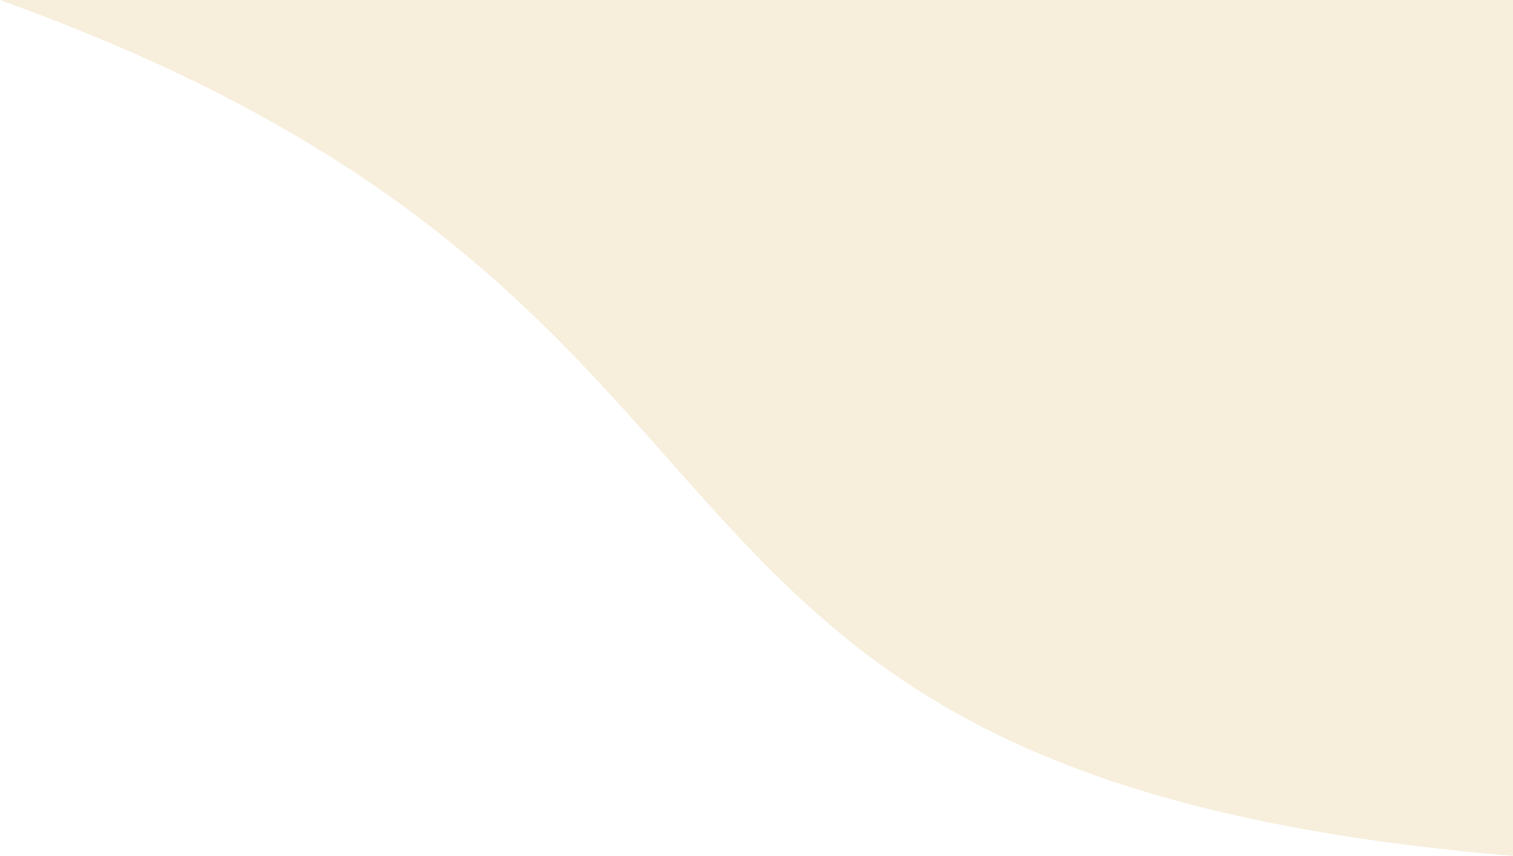
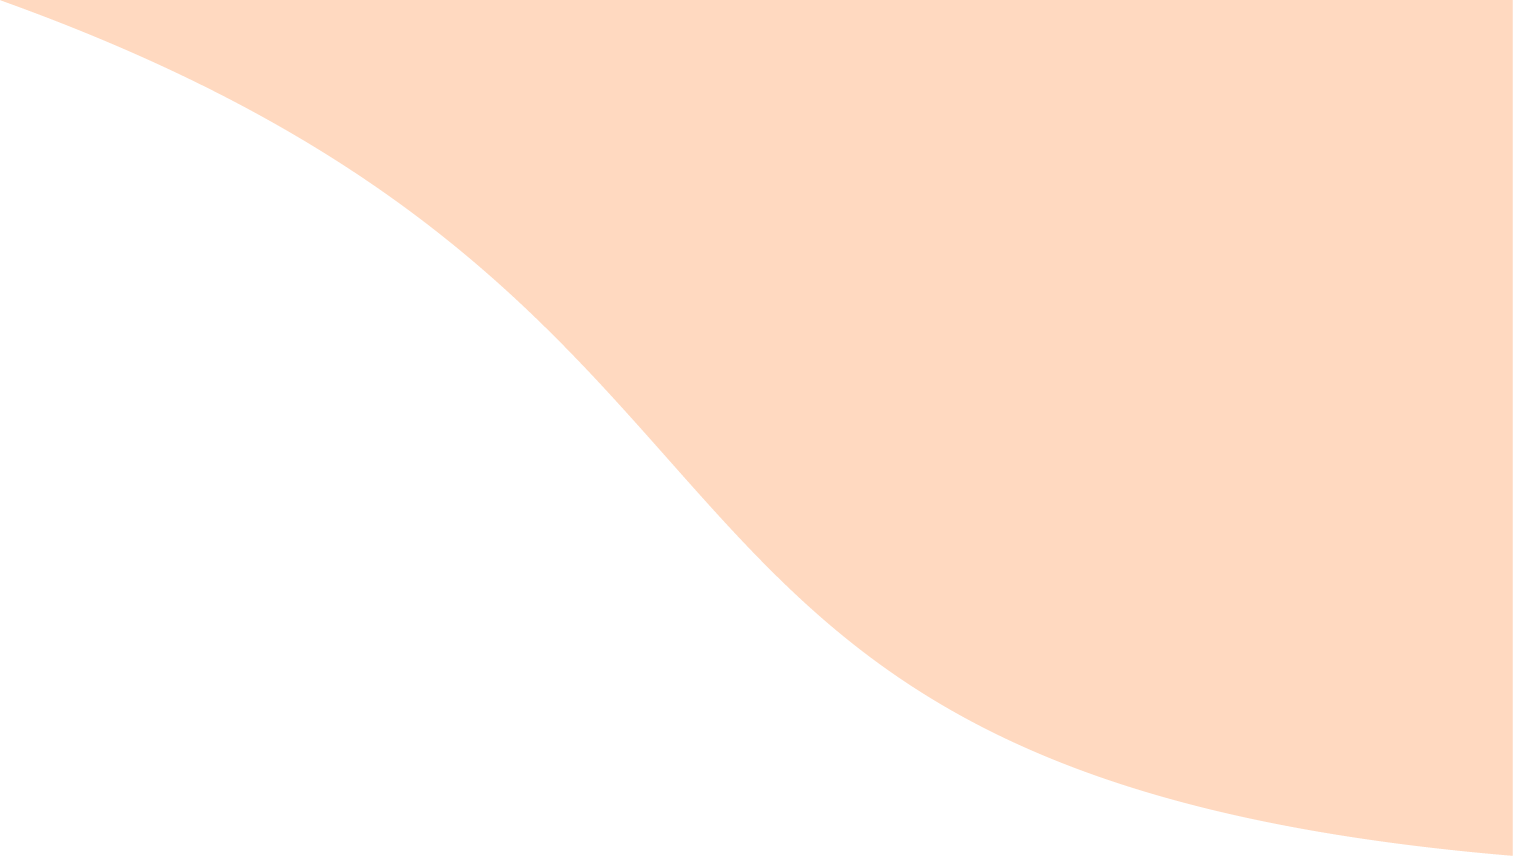
3rd commit

diff --git a/css/mobile.css b/css/mobile.css
@@ -1,5 +1,6 @@
 .back {
   width: 100%;
+  opacity: 0.3;
 }
 .back img{
   width: 75%;
@@ -44,7 +45,7 @@ header .nav_btn span {
   display: block;
   width: 28px;
   height: 3px;
-  background-color: #333;
+  background-color: #ff6600;
   border-radius: 5px;
   margin: 0 auto;
   margin-bottom: 6px;
@@ -121,6 +122,7 @@ header nav .gnb li:hover{
 header nav .gnb li{
   margin-bottom: 30px;
   font-size: 1.5rem;/*24*/
+  color: #ff6600;
 } 
 header nav .gnb li:last-child {
   margin: 0;
@@ -148,12 +150,20 @@ header nav .gnb li:last-child {
   padding-bottom: 16px;
   width: 100%;
   font-size: 1.625rem;
-  color: rgb(62,43,44);
+  color: #333;
+
   /* font-size: 26px; */
+}
+.banner .main_title .title_1 .txt .orange {
+  color: #ff6600;
+  background-color: transparent;
+  font-weight: 700;
+  padding: 0;
 }
 .banner .main_title .title_1 span{
   /* font-size: 24px; */
-  background-color: #f2f2f2;
+  background-color: #ff6600;
+  color: #fff;
   font-weight: 600;
   padding: 2px;
 }
@@ -179,7 +189,7 @@ header nav .gnb li:last-child {
 .title {
   font-size:2rem;
   margin-bottom: 16px;
-  color: rgb(62,43,44);
+  color: #ff6600 ;
 }
 .row1 {
   padding: 16px;
@@ -192,7 +202,7 @@ header nav .gnb li:last-child {
 .row1 .con .item{
   padding: 12px;
   /* background-color: rgb(241, 227, 196); */
-  background-color: #f1e3c4;
+  background-color: #fff4ed;
   border-radius: 4px;
   margin-bottom: 20px;
   color: #333;
@@ -207,6 +217,7 @@ header nav .gnb li:last-child {
 .row1 .con .item h4 {
   margin-bottom: 8px;
   font-size: 18px;
+  color: #ff6600;
 }
 .row1 .con .item .sub ul:first-child{
   font-weight: 500;
@@ -234,7 +245,7 @@ header nav .gnb li:last-child {
   aspect-ratio: 1/1;
   margin-bottom: 32px;
   /* background-color: rgb(241, 227, 196); */
-  background-color: #f1e3c4;
+  background-color: #fff4ed;
   border-radius: 8px;
   display: flex;
   height: 100%;
@@ -431,7 +442,7 @@ header nav .gnb li:last-child {
 }
 
 footer {
-  background-color: rgb(62,43,44);
+  background-color: #ff6600;
   color: #fff;
 }
 footer .foot_inner {

diff --git a/index.html b/index.html
@@ -36,7 +36,7 @@
         <div class="txt">
           독창적인 인사이트와<br />
           기술에 대한 집념으로<br />
-          진화된 UI/UX를 추구합니다
+          <span class="orange">진화된 UI/UX를 추구합니다</span>
         </div><!--txt-->
         <span class="fs_4">웹디자이너 이선경</span>
       </div><!--title_1-->

diff --git a/css/pc.css b/css/pc.css
@@ -81,7 +81,8 @@
     justify-content: space-between;
     white-space: nowrap;
     /* background-color: rgb(241, 227, 196); */
-    background-color: #f1e3c4;
+    background-color:#fff4ed;;
+;
     border-radius: 8px;
     padding: 26px;
   }
